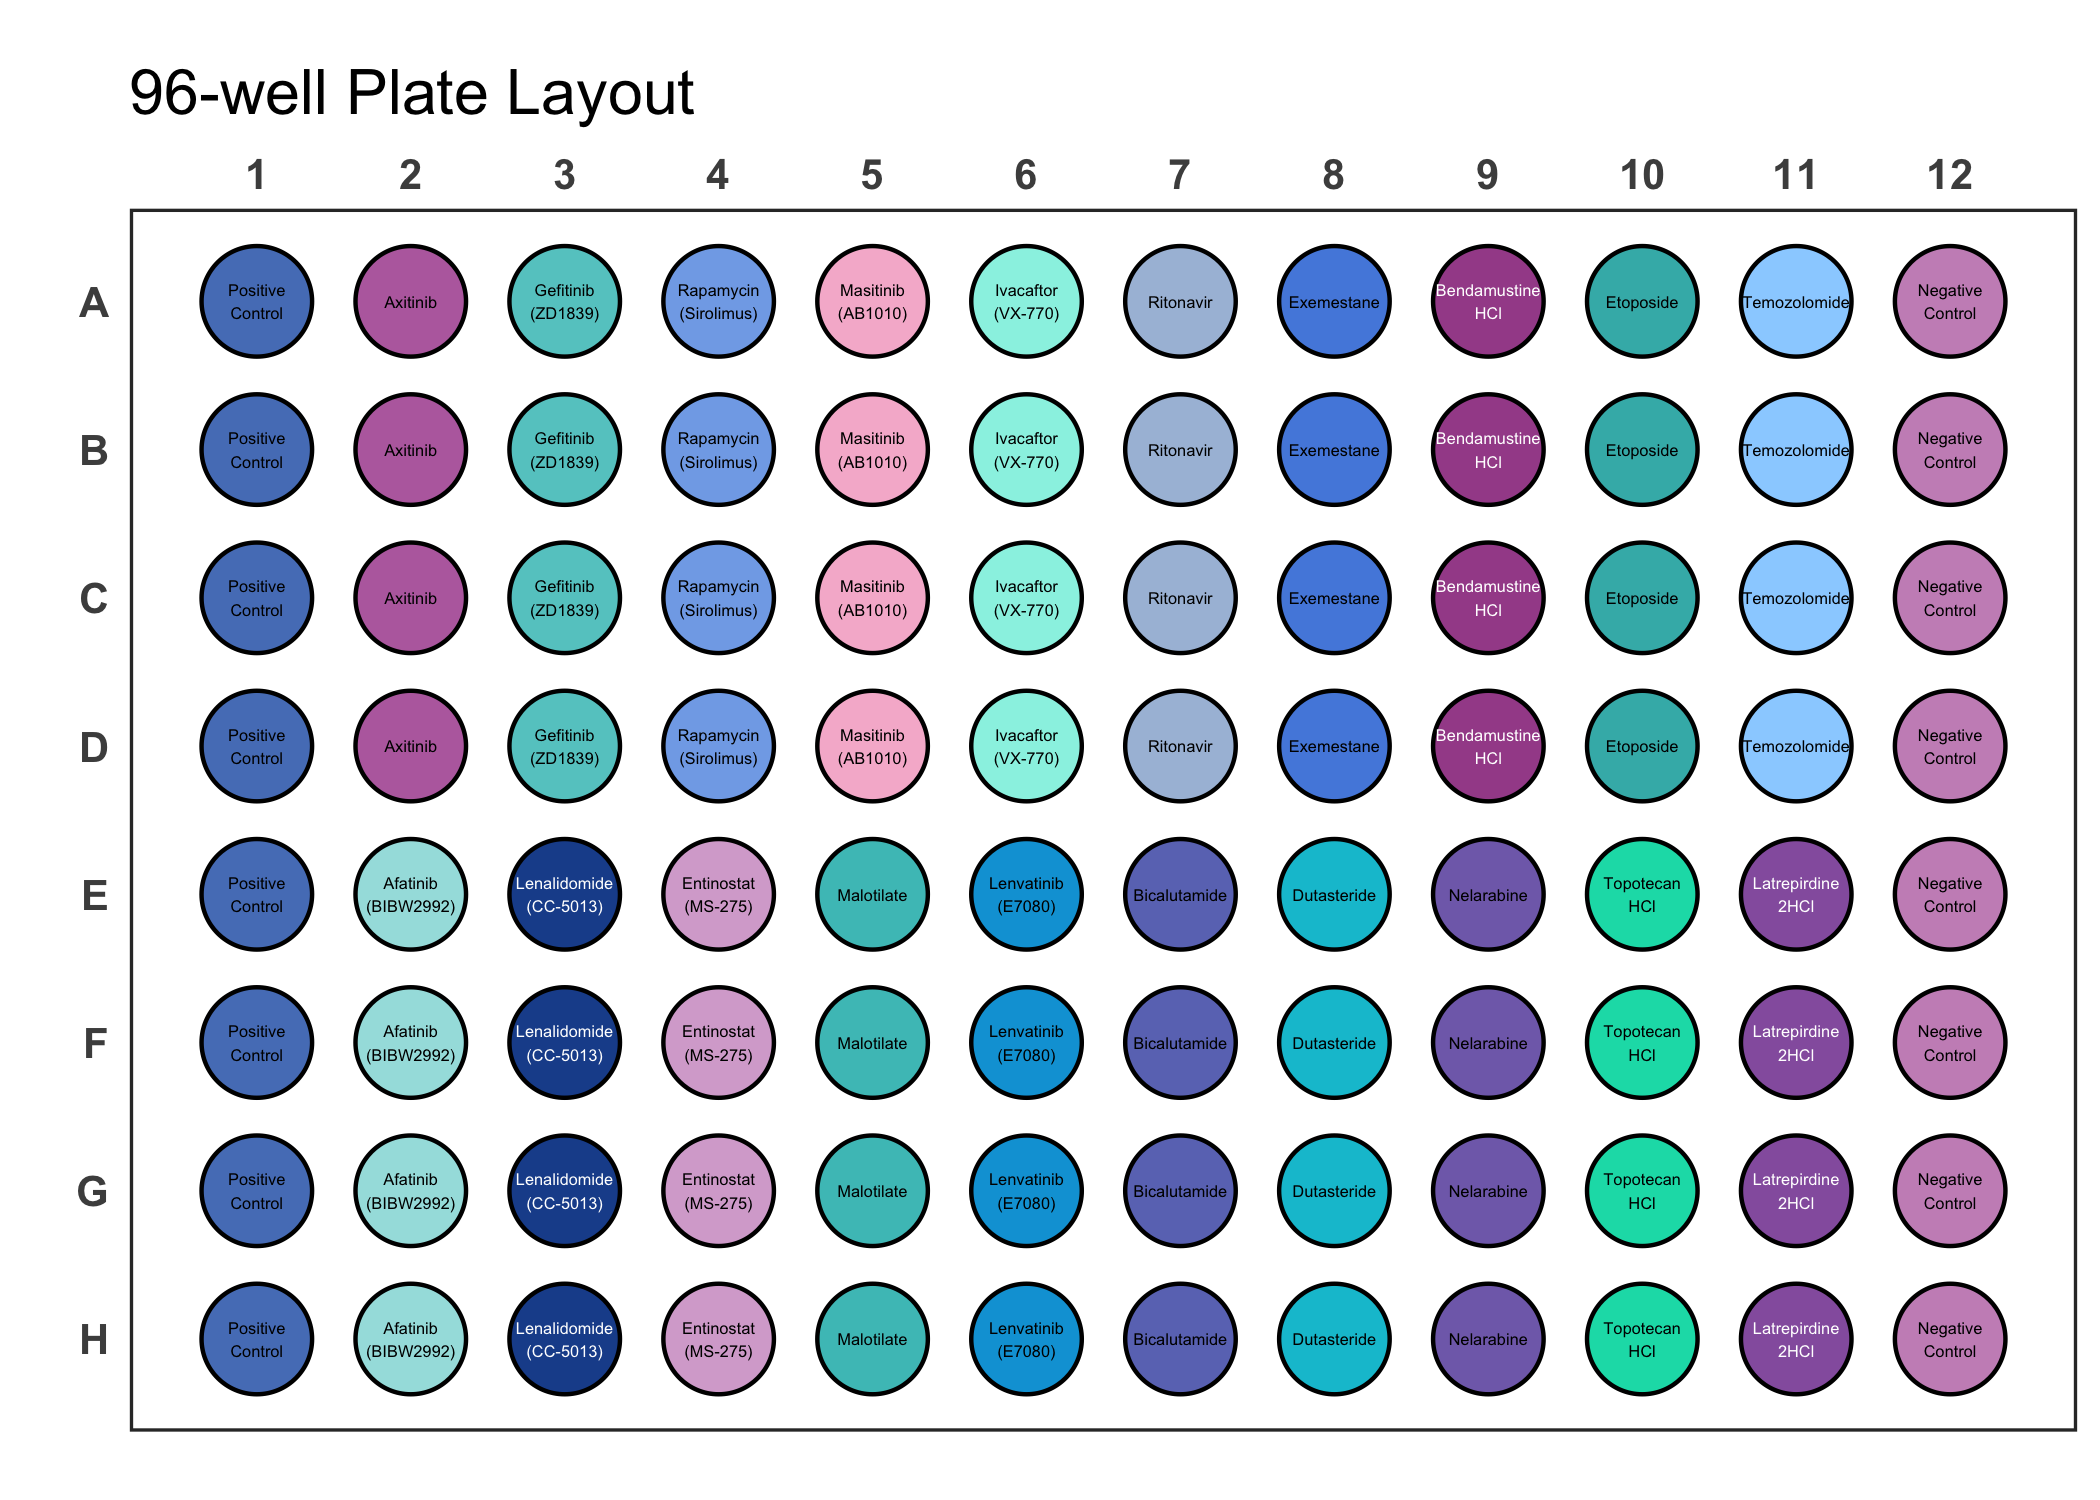
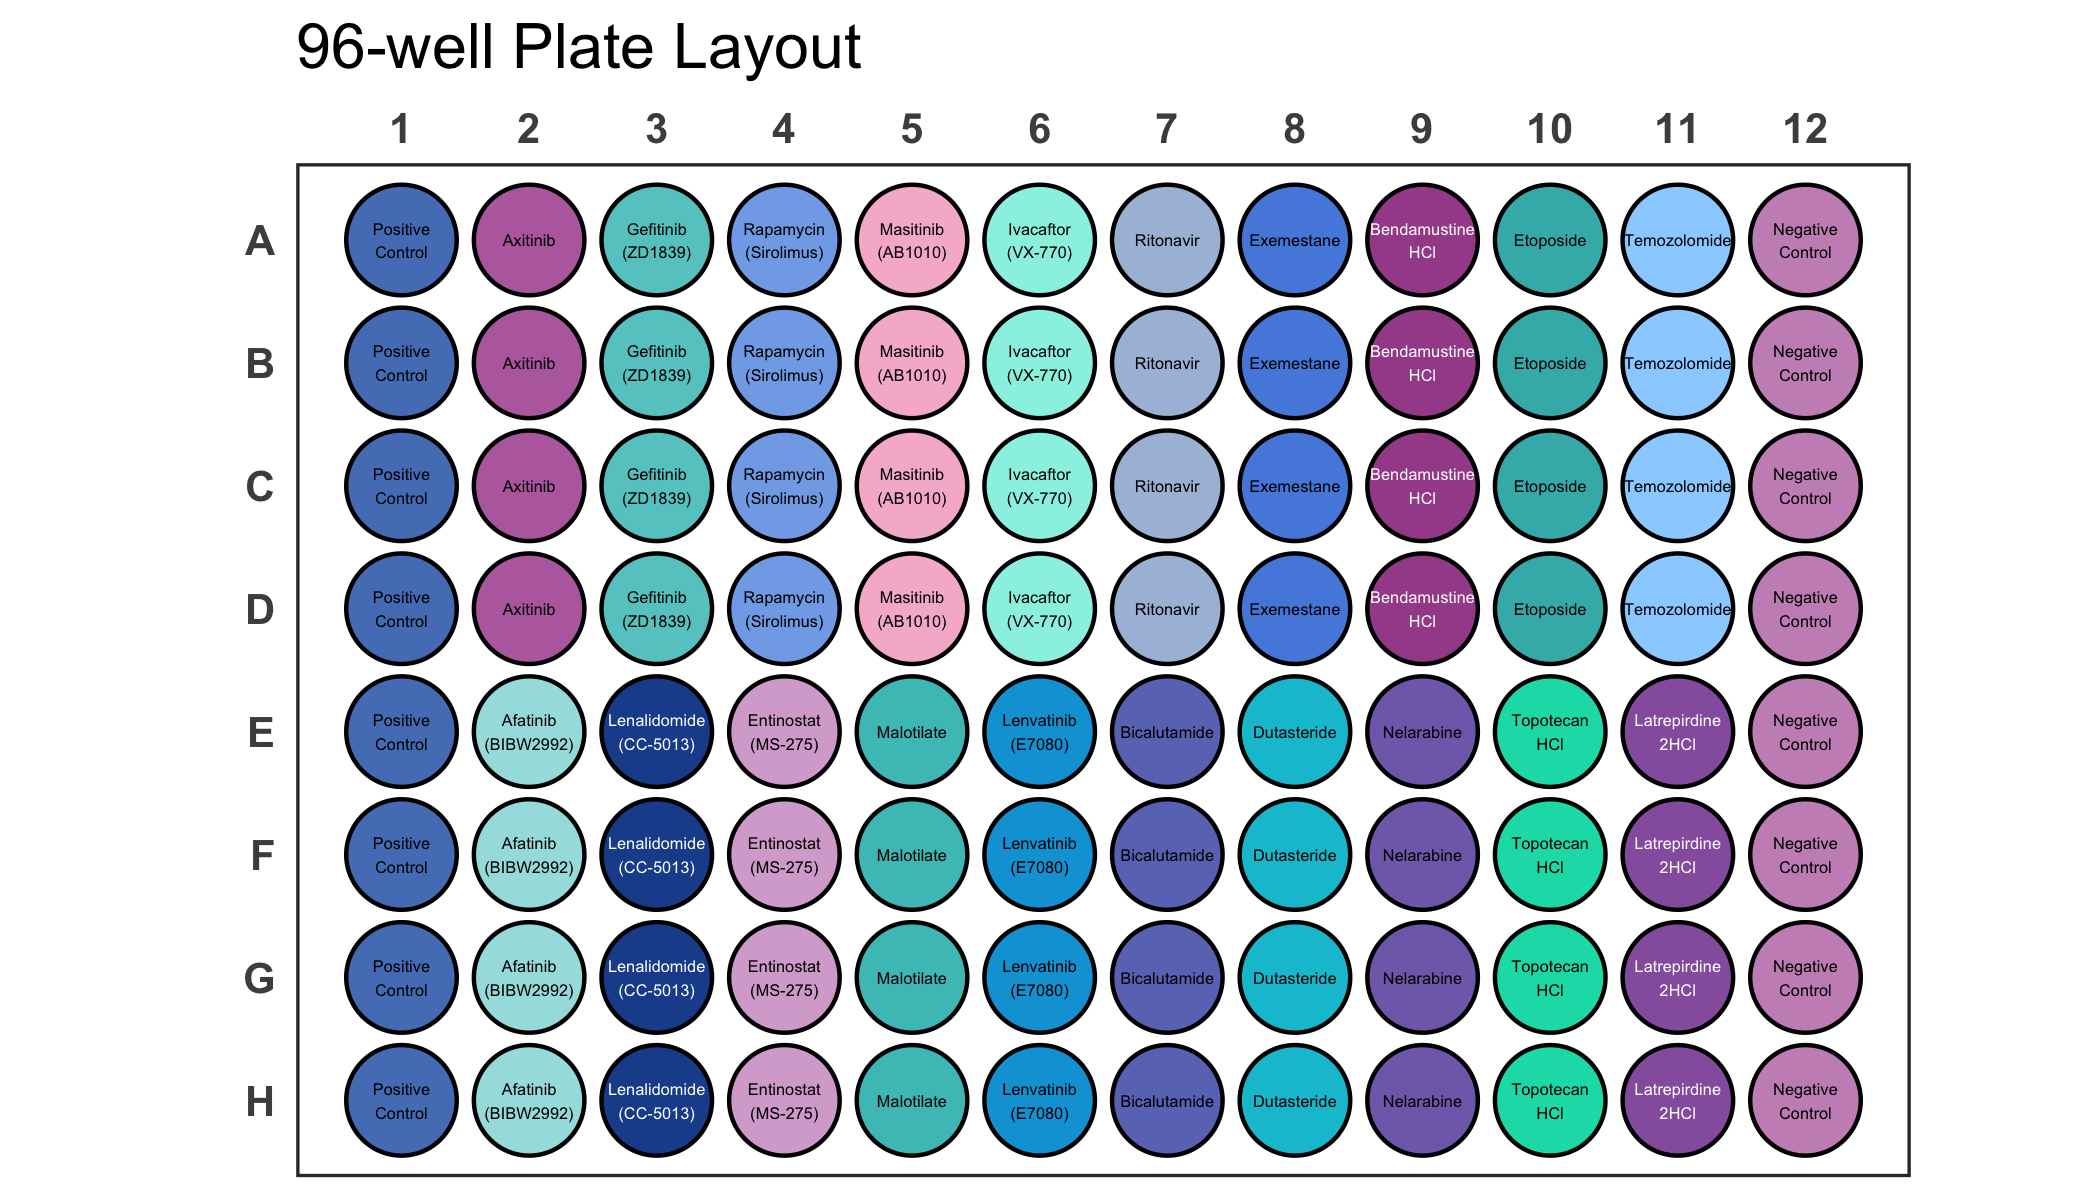
Resize README figures

diff --git a/README.md b/README.md
@@ -91,7 +91,7 @@ the column containing the well positions is provided to the `position`
 argument. The column name of the column containing the values is
 provided to the `value` argument.
 
-*Note: For an Rmarkdown file set the chunk options to `dpi=300` for an
+*Note: For an R markdown file set the chunk options to `dpi=300` for an
 optimal result.*
 
 ``` r
@@ -240,6 +240,10 @@ You can change the title of the plot using the `title` argument. In
 addition the size of the title can be adjusted using the `title_size`
 argument.
 
+*Note: Using the R markdown chunk options `out.width` and `fig.align`
+you can reduce the size of the figure in the R markdown document and
+align it for example to the center.*
+
 ``` r
 # Load a dataset of discrete values for a 6-well plate
 data(data_discrete_6)
@@ -260,7 +264,7 @@ plate_plot(data = data_discrete_6,
            title_size = 23)
 ```
 
-<img src="man/figures/README-standard_plot_6_well-1.png" width="100%" />
+<img src="man/figures/README-standard_plot_6_well-1.png" width="80%" style="display: block; margin: auto;" />
 
 In addition it is possible to change the colours of the plot by
 providing new colours to the `colour` argument. As mentioned earlier
@@ -279,7 +283,7 @@ plate_plot(data = data_discrete_6,
            colour = c("#3a1c71", "#d76d77", "#ffaf7b"))
 ```
 
-<img src="man/figures/README-6_well_plot_new_colours-1.png" width="100%" />
+<img src="man/figures/README-6_well_plot_new_colours-1.png" width="80%" style="display: block; margin: auto;" />
 
 Also for this plot we can provide a column name to the `label` argument
 to directly label the wells in the plot. At the same time we can disable
@@ -303,7 +307,7 @@ plate_plot(data = data_discrete_6,
            label_size = 4)
 ```
 
-<img src="man/figures/README-6_well_plot_new_colours_no_legend-1.png" width="100%" />
+<img src="man/figures/README-6_well_plot_new_colours_no_legend-1.png" width="80%" style="display: block; margin: auto;" />
 
 ## Potential Issues
 
@@ -333,7 +337,7 @@ plate_plot(data = data_discrete_24,
            plate_size = 24, 
            plate_type = "round",
            silent = FALSE)
-#> width: 7 height: 5
+#> width: 7 height: 4
 #> scaling factor: 1.256
 ```
 
@@ -353,9 +357,9 @@ plate_plot(data = data_discrete_24,
            plate_size = 24, 
            plate_type = "round",
            silent = FALSE,
-           scale = 1.5)
-#> width: 7 height: 5
-#> scaling factor: 1.5
+           scale = 1.45)
+#> width: 7 height: 4
+#> scaling factor: 1.45
 ```
 
 <img src="man/figures/README-resize_plot-1.png" width="100%" /> As you
@@ -376,7 +380,7 @@ plate_plot(data = data_discrete_24,
            silent = FALSE,
            scale = 1.2,
            legend_n_row = 6)
-#> width: 7 height: 5
+#> width: 7 height: 4
 #> scaling factor: 1.2
 ```
 
@@ -401,7 +405,7 @@ plate_plot(data = data_discrete_96,
            position = well, 
            value = Compound, 
            plate_size = 96, 
-           scale = 1,
+           scale = 0.95,
            plate_type = "round")
 ```
 
